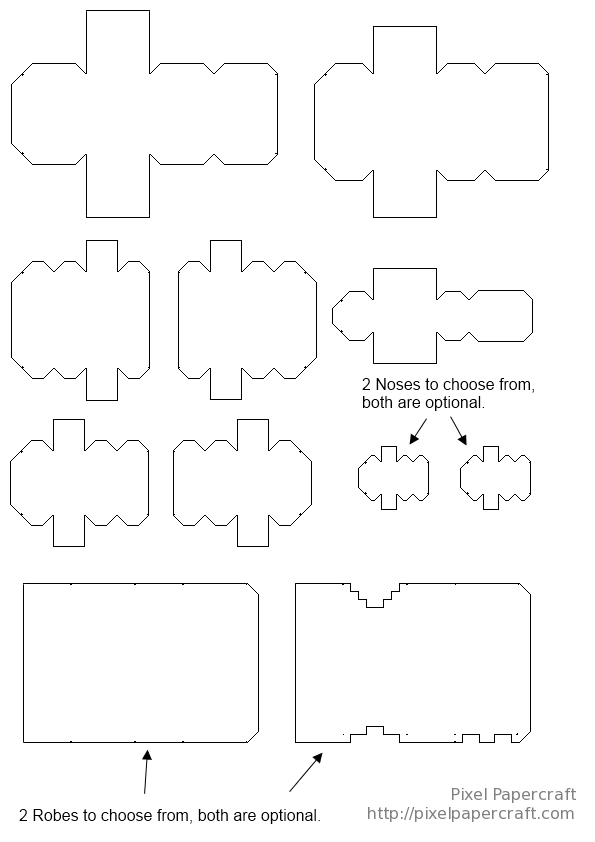
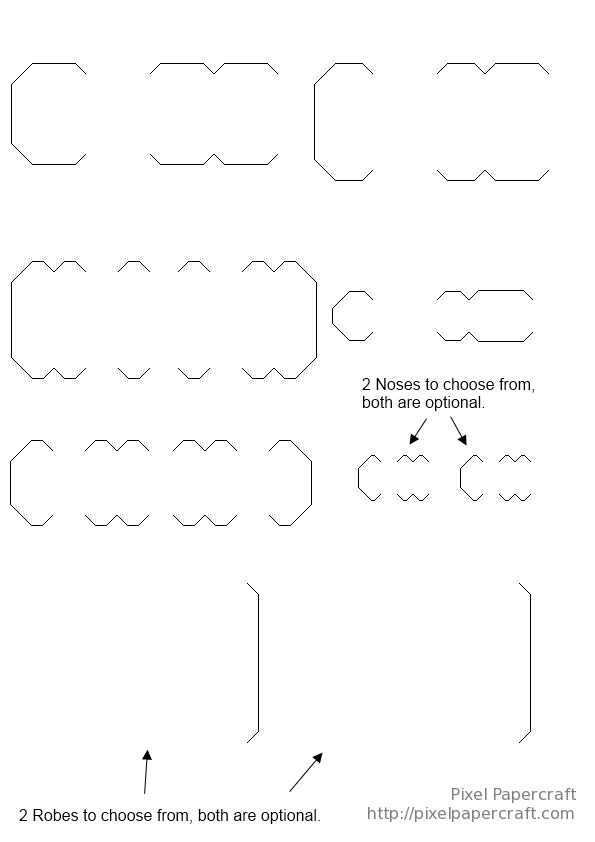
Tweaked Villager Character Background and Added Folds Layer
There is no more Robe Cover image, because what it added is part of the Background and the background is now drawn in the front.

diff --git a/src/generators/minecraft-villager-character/MinecraftVillagerCharacterGenerator.bs.js b/src/generators/minecraft-villager-character/MinecraftVillagerCharacterGenerator.bs.js
@@ -20,24 +20,24 @@ var thumbnail = {
   url: require("./thumbnail/thumbnail.jpeg")
 };
 
-var images = [
-  {
-    id: "Background",
-    url: requireImage("Background")
-  },
-  {
-    id: "RobeCover",
-    url: requireImage("RobeCover")
-  },
-  {
-    id: "Labels",
-    url: requireImage("Labels")
-  }
+var imageIds = [
+  "Background",
+  "Folds",
+  "Labels"
 ];
+
+function toImageDef(id) {
+  return {
+          id: id,
+          url: requireImage(id)
+        };
+}
+
+var images = imageIds.map(toImageDef);
 
 var textures = [{
     id: "Skin",
-    url: requireTexture("Skin"),
+    url: requireTexture("Steve"),
     standardWidth: 64,
     standardHeight: 64
   }];
@@ -50,12 +50,10 @@ function script(param) {
         standardHeight: 64,
         choices: []
       });
+  Generator.defineBooleanInput("Show Folds", true);
   Generator.defineBooleanInput("Show Labels", true);
+  var showFolds = Generator.getBooleanInputValue("Show Folds");
   var showLabels = Generator.getBooleanInputValue("Show Labels");
-  Generator.drawImage("Background", [
-        0,
-        0
-      ]);
   Generator.drawTextureLegacy("Skin", {
         x: 0,
         y: 8,
@@ -1090,10 +1088,16 @@ function script(param) {
         w: 64,
         h: 160
       }, undefined, undefined, undefined);
-  Generator.drawImage("RobeCover", [
+  Generator.drawImage("Background", [
         0,
         0
       ]);
+  if (showFolds) {
+    Generator.drawImage("Folds", [
+          0,
+          0
+        ]);
+  }
   if (showLabels) {
     return Generator.drawImage("Labels", [
                 0,
@@ -1121,6 +1125,8 @@ exports.requireTexture = requireTexture;
 exports.id = id;
 exports.name = name;
 exports.thumbnail = thumbnail;
+exports.imageIds = imageIds;
+exports.toImageDef = toImageDef;
 exports.images = images;
 exports.textures = textures;
 exports.steve = steve;
